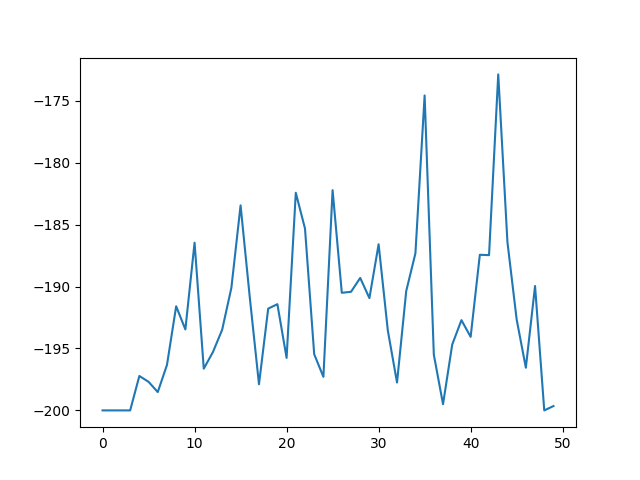
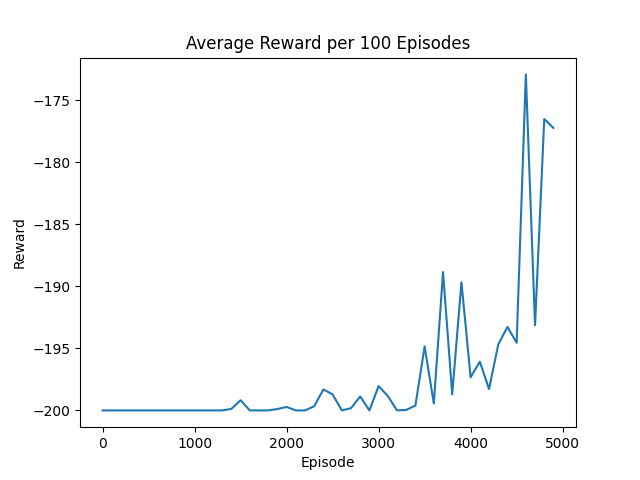
Improved mountainCar_QLearning

diff --git a/mountainCar_QLearning.py b/mountainCar_QLearning.py
@@ -27,6 +27,8 @@ def QLearning(episodes, epsilon, alpha, discount):
 	rewards = []
 	meanRewards = []
 
+	decay = epsilon / episodes
+
 	for i in range(episodes):
 		done = False
 		state = discretizeState(env.reset())
@@ -44,6 +46,9 @@ def QLearning(episodes, epsilon, alpha, discount):
 
 			state = newState
 			inReward += reward
+
+		if epsilon > 0:
+			epsilon -= decay
 
 		rewards.append(inReward)
 		if (i % 100 == 0):
@@ -67,9 +72,12 @@ def quickDemo(episodes, Q):
 
 			state = newState
 
-Q, rewards = QLearning(5000, 0.05, 0.2, 0.9)
+Q, rewards = QLearning(5000, 0.5, 0.2, 0.9)
 
-plt.plot(rewards)
+plt.plot(100*(np.arange(len(rewards))), rewards)
+plt.xlabel('Episode')
+plt.ylabel('Reward')
+plt.title('Average Reward per 100 Episodes')
 plt.savefig('tmp_plots/mountainCar_rewards.png')
 
-quickDemo(10, Q)
+quickDemo(5, Q)
